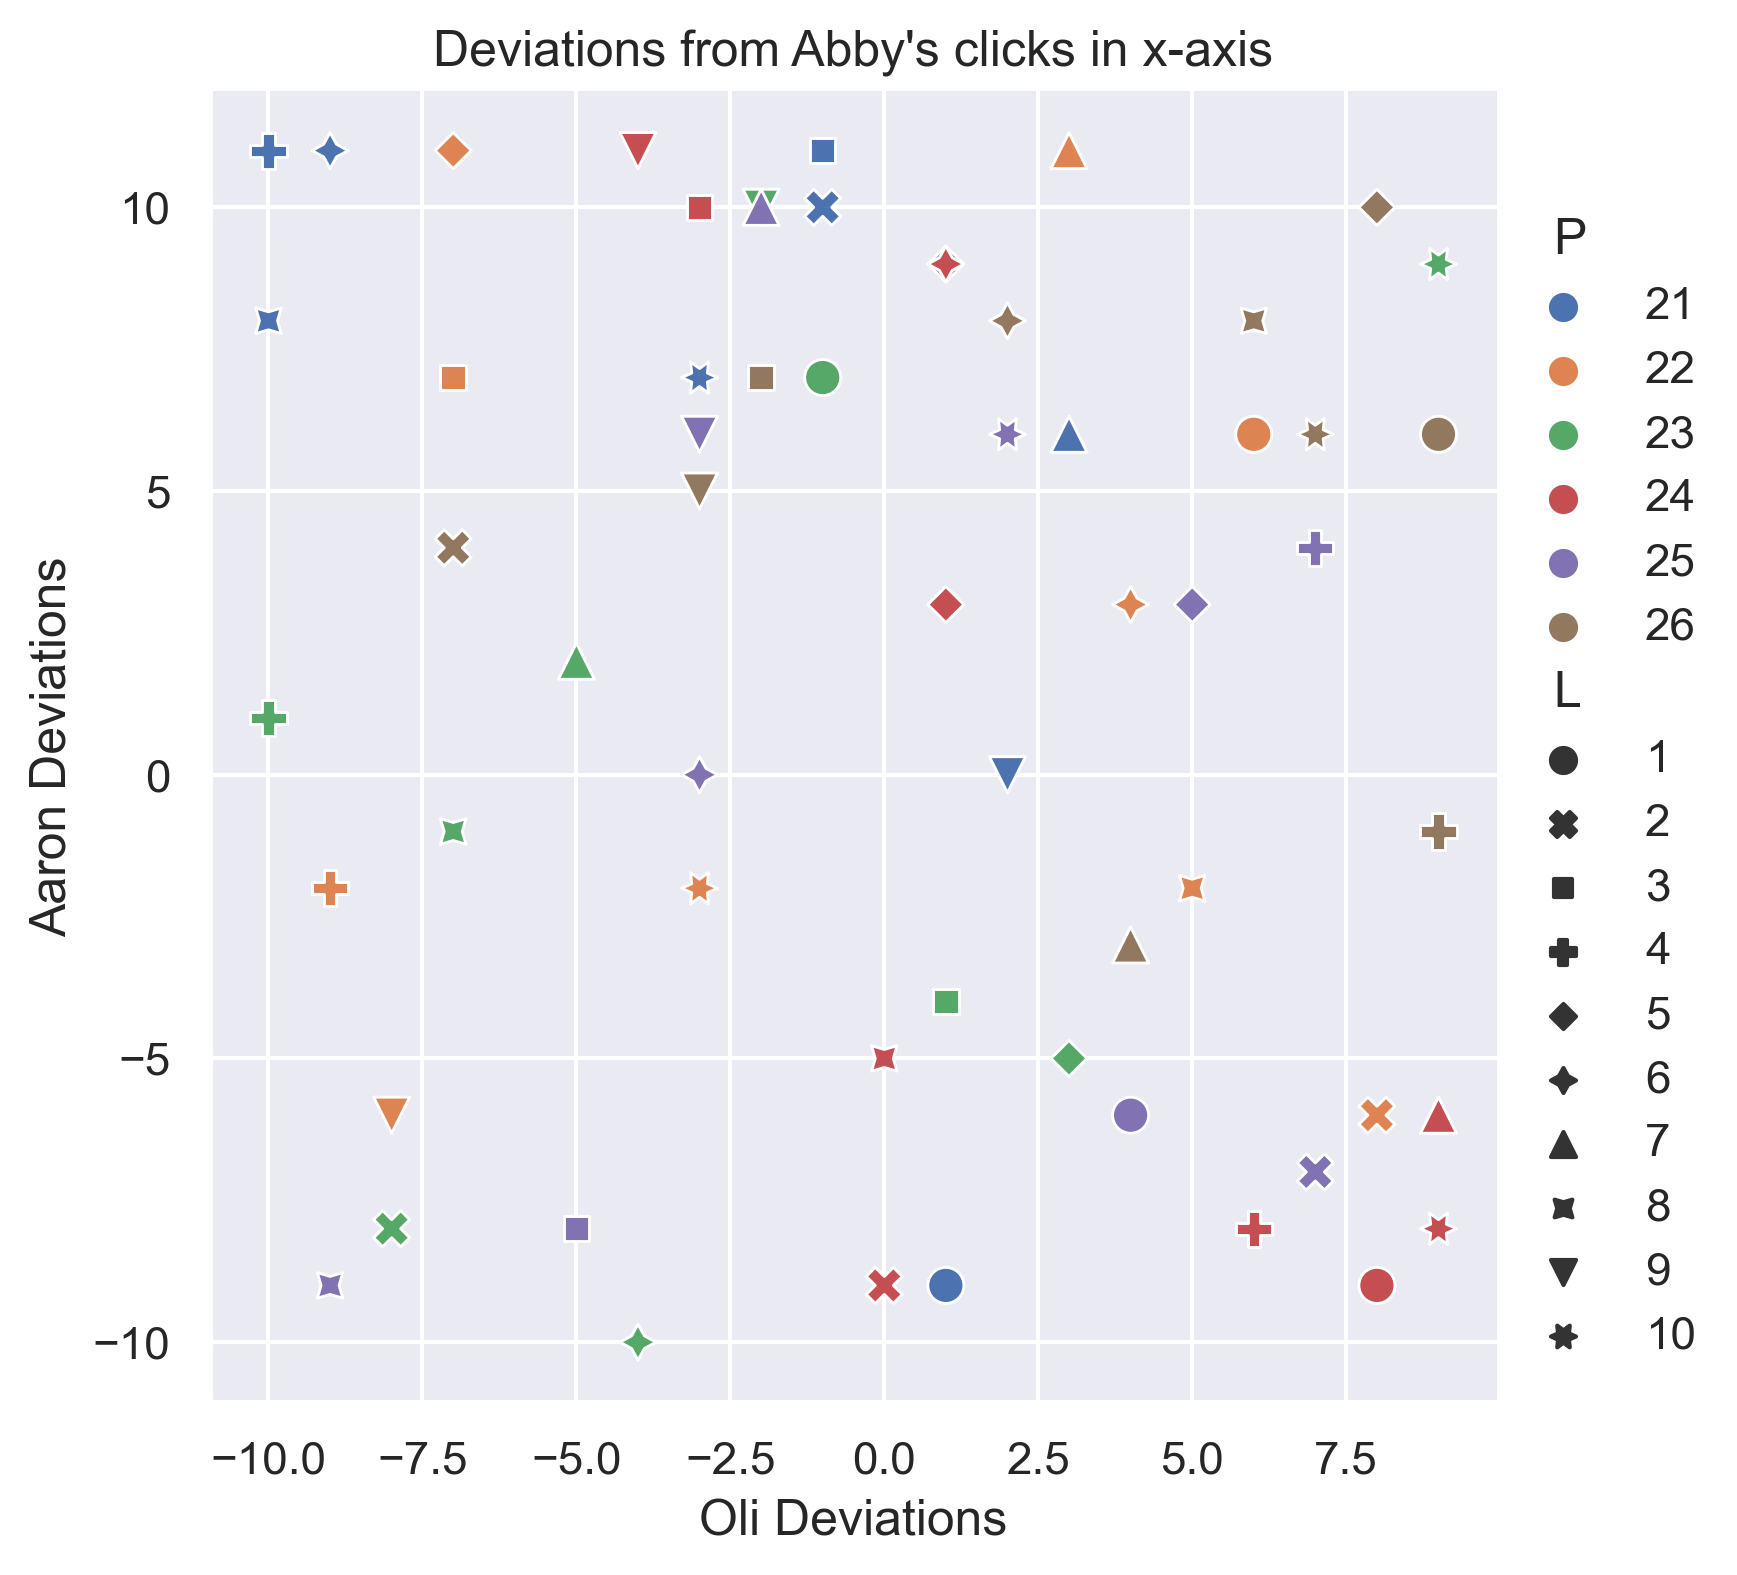
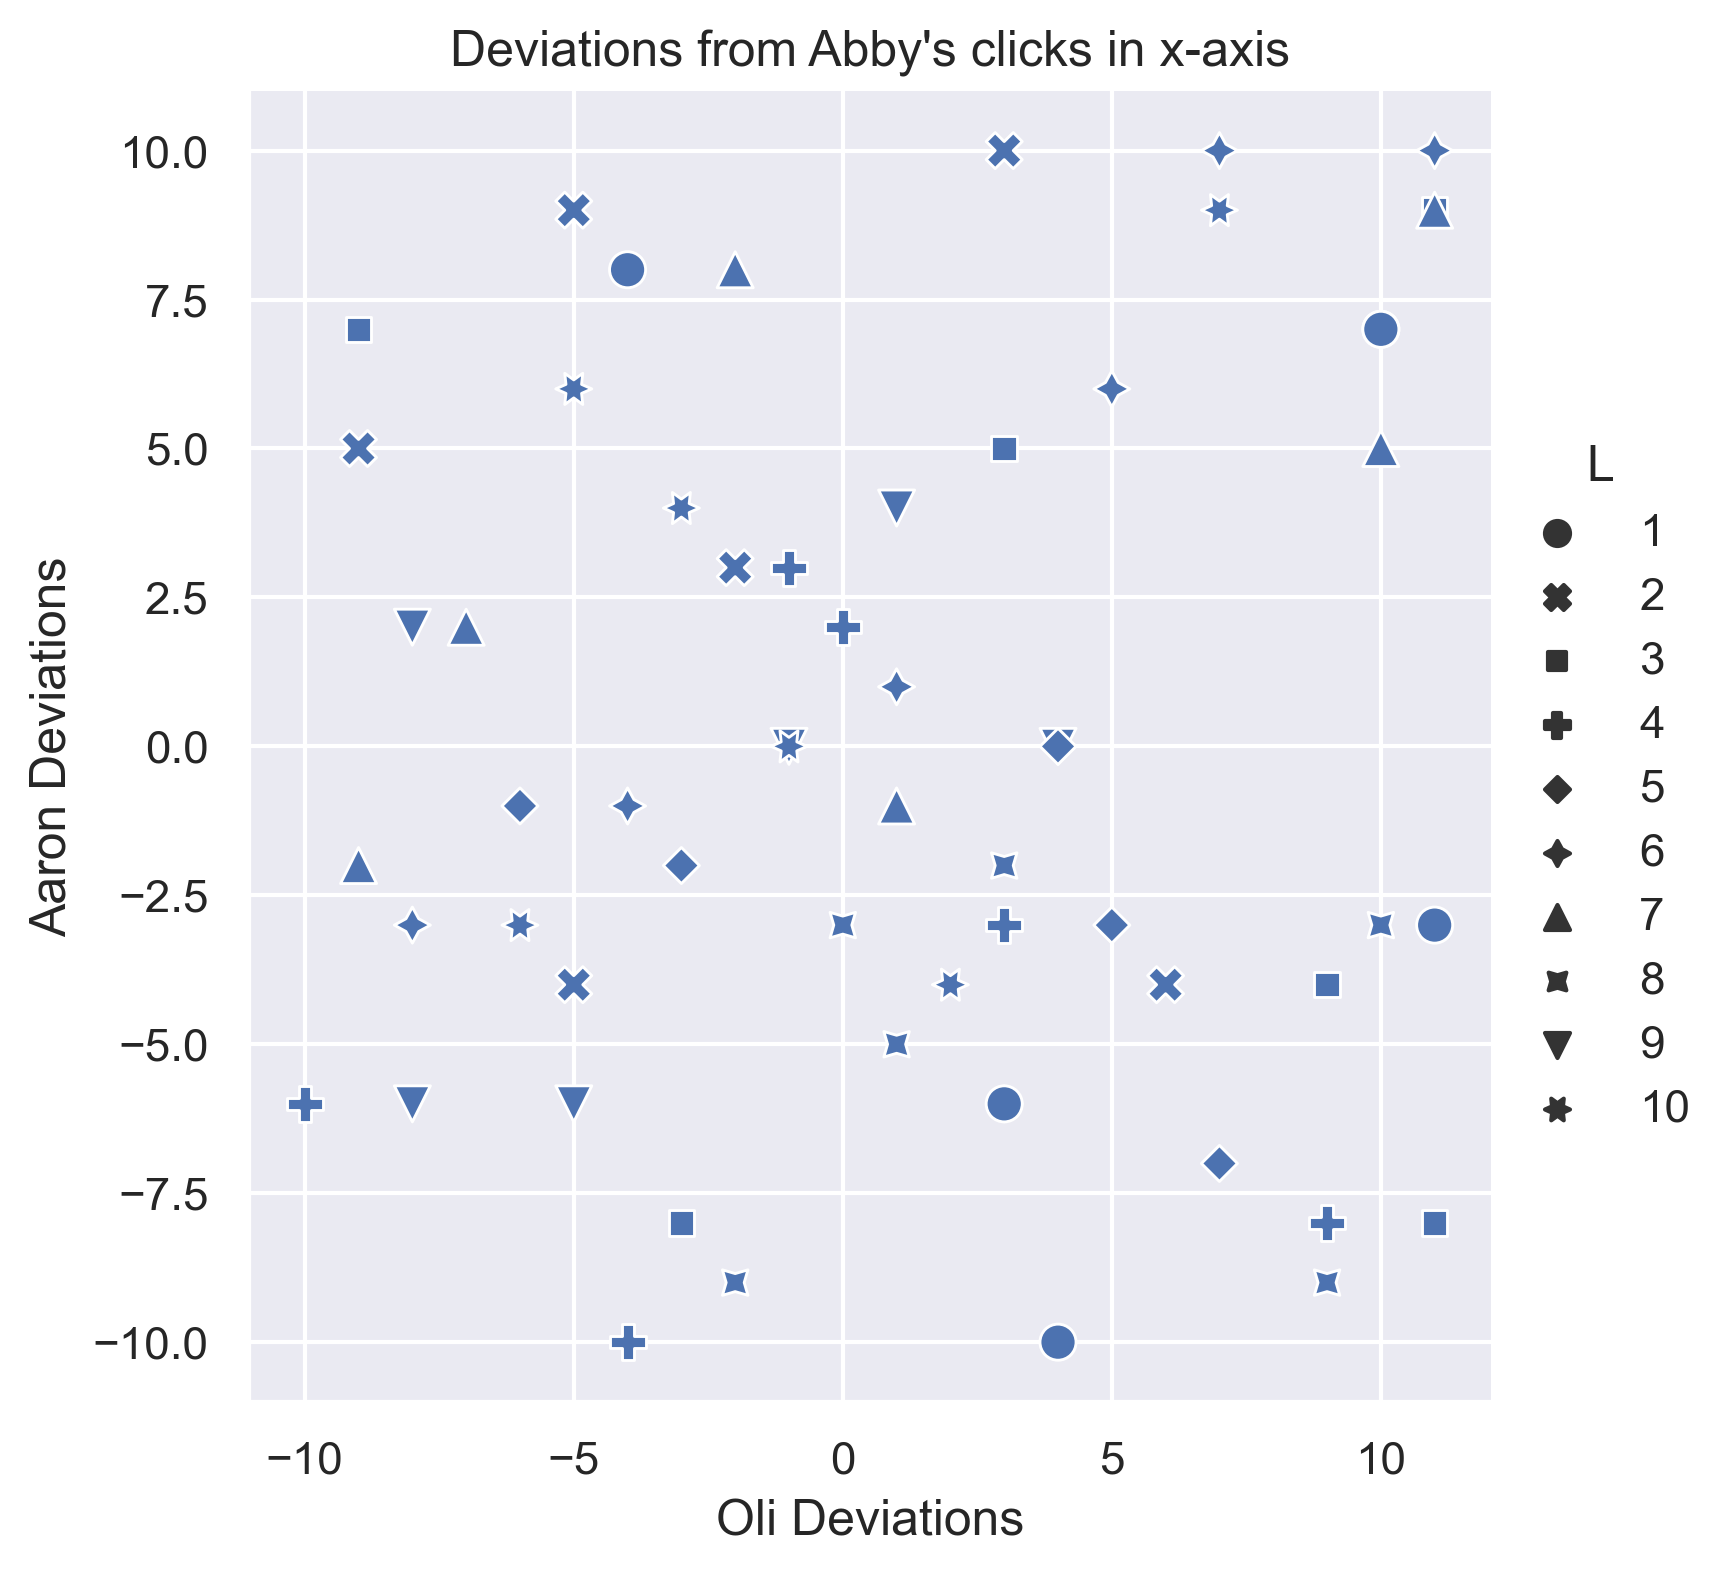
tidy

diff --git a/compare/bias_clicks.py b/compare/bias_clicks.py
@@ -151,15 +151,47 @@ df_d = pd.DataFrame(d, columns=('Patient', 'Landmark', 'A_x', 'O_x', 'A_y', 'O_y
 print(df_d) 
 print(df_d.shape)   
 
-#sns_plot = sns.lmplot(data=df_d, x = 'A_x',y = 'O_x', hue ='Patient', scatter = True, fit_reg=False, markers=True)  
-sns_plot = sns.relplot(x = 'O_x', y = 'A_x', hue = 'Patient', style = 'Landmark', data=df_d, s=75)
+
+x_axis = df_d.plot.scatter(x = 'O_x',
+                   y = 'A_x',
+                   c = 'Landmark',
+                   colormap = 'Set3'
+                   )
+
+#x_axis(figsize=(8, 6), dpi=80)
 plt.xlabel('Oli Deviations')
 plt.ylabel('Aaron Deviations')
 plt.title("Deviations from Abby's clicks in x-axis")
 plt.savefig('bias_output_x.png', bbox_inches='tight', dpi=300)
+
+plt.show()
+x_axis2 = plt.scatter(x = 'O_x',
+                   y = 'A_x',
+                   #c = 'Landmark',
+                   colormap = 'Set3'
+                   )
+
+#x_axis(figsize=(8, 6), dpi=80)
+plt.xlabel('Oli Deviations')
+plt.ylabel('Aaron Deviations')
+plt.title("Deviations from Abby's clicks in x-axis")
+plt.savefig('bias_output_x.png', bbox_inches='tight', dpi=300)
+
+plt.show()
+'''
+
+#sns_plot = sns.lmplot(data=df_d, x = 'A_x',y = 'O_x', hue ='Patient', scatter = True, fit_reg=False, markers=True)  
+sns.set_palette("hls", 10)
+sns_plot = sns.relplot(x = 'O_x', y = 'A_x', hue = 'Landmark', palette = 'hls', data=df_d, s=75)
+plt.xlabel('Oli Deviations')
+plt.ylabel('Aaron Deviations')
+plt.title("Deviations from Abby's clicks in x-axis")
+plt.show()
+
+plt.savefig('bias_output_x.png', bbox_inches='tight', dpi=300)
 print(os.getcwd())
 
-
+'''
 
 '''
 #print(d_x)        

diff --git a/compare/test_plot.py b/compare/test_plot.py
@@ -68,7 +68,7 @@ for i in struc_list:
 d_d = pd.DataFrame(d, columns=('P', 'L', 'A_x', 'O_x', 'A_y', 'O_y', 'A_z', 'O_z'))
 print(d_d) 
 print(d_d.shape)   
-sns_plot = sns.relplot(x = 'A_x',y = 'O_x', hue= 'P', style = 'L', data=d_d, s=75)   
+sns_plot = sns.relplot(x = 'A_x',y = 'O_x', style= 'L', data=d_d, s=75)   
 plt.xlabel('Oli Deviations')
 plt.ylabel('Aaron Deviations')
 plt.title("Deviations from Abby's clicks in x-axis")
